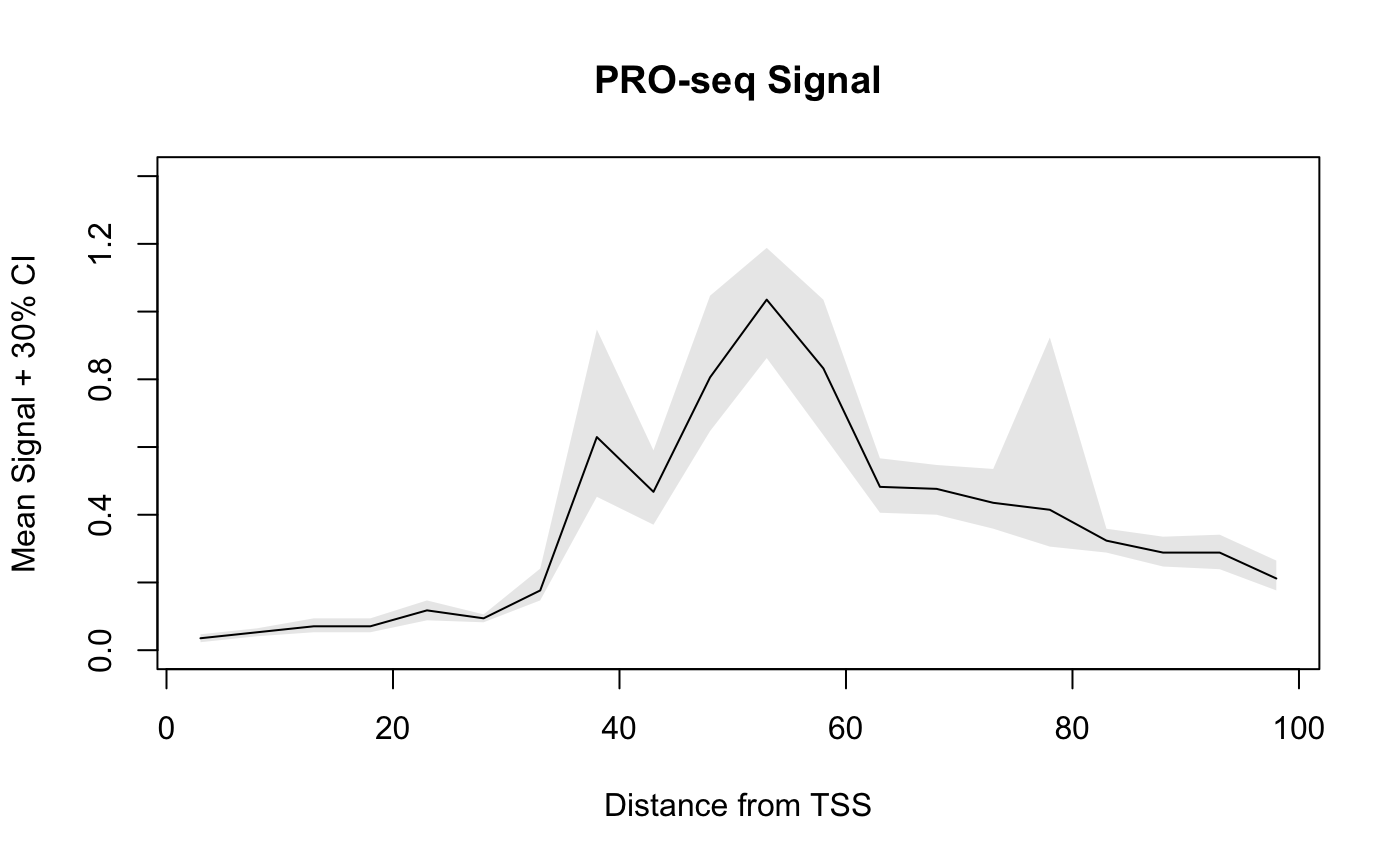
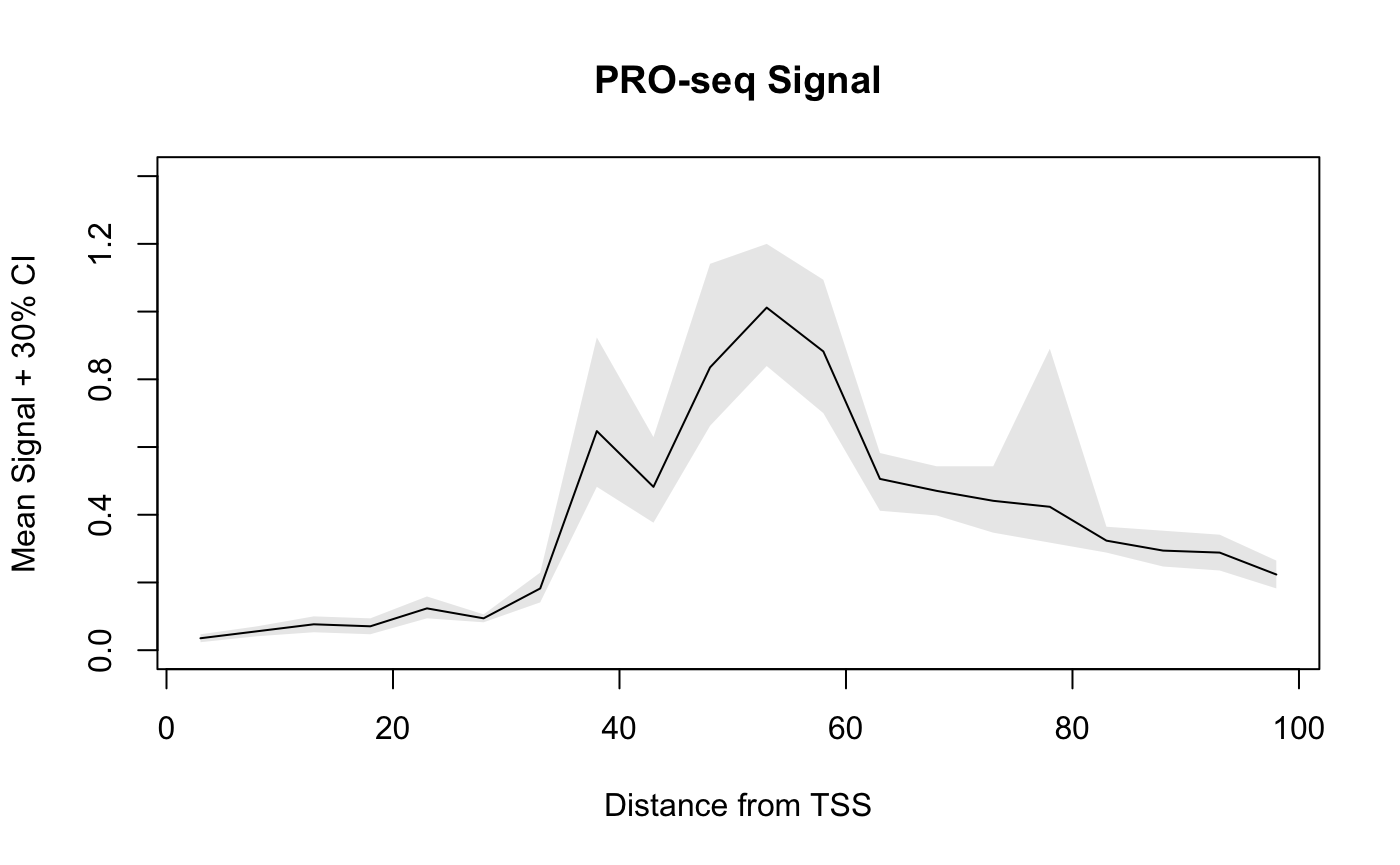
v0.99.26 fix

diff --git a/articles/BRGenomicsOverview.html b/articles/BRGenomicsOverview.html
@@ -76,7 +76,7 @@
   <div class="col-md-9 contents">
     <div class="page-header toc-ignore">
       <h1>Basepair-Resolution Analysis with BRGenomics</h1>
-            <h3 class="subtitle"><em>Straightforward and efficient tools for analyzing genomics data</em></h3>
+            <h3 class="subtitle"><em>Straightforward tools for high-resolution genomics data</em></h3>
                         <h4 class="author">Mike DeBerardine</h4>
                   <a class="author_email" href="mailto:#"></a><a href="mailto:mike.deberardine@gmail.com" class="email">mike.deberardine@gmail.com</a>
       
@@ -1073,10 +1073,10 @@
 <a class="sourceLine" id="cb132-3" data-line-number="3"><span class="kw"><a href="https://rdrr.io/r/utils/head.html">head</a></span>(bootmeans.df)</a></code></pre></div>
 <pre><code>##    x       mean      lower      upper sample.name
 ## 1  3 0.03529412 0.02352941 0.04705882      PROseq
-## 2  8 0.05294118 0.04117647 0.06470588      PROseq
-## 3 13 0.07058824 0.05294118 0.09411765      PROseq
-## 4 18 0.07058824 0.05294118 0.09411765      PROseq
-## 5 23 0.11764706 0.08823529 0.14705882      PROseq
+## 2  8 0.05588235 0.04117647 0.07058824      PROseq
+## 3 13 0.07647059 0.05294118 0.10000000      PROseq
+## 4 18 0.07058824 0.04705882 0.09411765      PROseq
+## 5 23 0.12352941 0.09411765 0.15882353      PROseq
 ## 6 28 0.09411765 0.08235294 0.10588235      PROseq</code></pre>
 <p>A dataframe is returned for plotting, and notice how the x-values have been automatically adjusted to be the center of the bins.</p>
 <p>Below, we show how to plot the confidence bands using base R plotting, as well as <code>ggplot2</code>.</p>
@@ -1113,7 +1113,7 @@
 ## 1  3 0.01176471 0.005882353 0.01764706         ps1
 ## 2  8 0.01764706 0.011764706 0.02352941         ps1
 ## 3 13 0.01764706 0.011764706 0.02352941         ps1
-## 4 18 0.04117647 0.023529412 0.04705882         ps1
+## 4 18 0.04117647 0.029411765 0.05294118         ps1
 ## 5 23 0.02941176 0.017647059 0.04705882         ps1
 ## 6 28 0.02941176 0.023529412 0.04117647         ps1</code></pre>
 <div class="sourceCode" id="cb138"><pre class="sourceCode r"><code class="sourceCode r"><a class="sourceLine" id="cb138-1" data-line-number="1"><span class="kw"><a href="https://rdrr.io/r/base/library.html">require</a></span>(ggplot2)</a>

diff --git a/reference/getCountsByPositions.html b/reference/getCountsByPositions.html
@@ -147,20 +147,6 @@ overlapping each bin. For a description of the critical difference between
   <span class='kw'>melt</span> <span class='kw'>=</span> <span class='fl'>FALSE</span>,
   <span class='kw'>expand_ranges</span> <span class='kw'>=</span> <span class='fl'>FALSE</span>,
   <span class='kw'>ncores</span> <span class='kw'>=</span> <span class='fu'>detectCores</span>()
-)
-
-<span class='fu'>.getCoverageByPositions</span>(
-  <span class='no'>dataset.gr</span>,
-  <span class='no'>regions.gr</span>,
-  <span class='no'>binsize</span>,
-  <span class='no'>FUN</span>,
-  <span class='no'>simplify.multi.widths</span>,
-  <span class='no'>field</span>,
-  <span class='no'>NF</span>,
-  <span class='no'>blacklist</span>,
-  <span class='no'>NA_blacklisted</span>,
-  <span class='no'>melt</span>,
-  <span class='no'>ncores</span>
 )</pre>
 
     <h2 class="hasAnchor" id="arguments"><a class="anchor" href="#arguments"></a>Arguments</h2>

diff --git a/reference/index.html b/reference/index.html
@@ -170,7 +170,7 @@
       </tr><tr>
         
         <td>
-          <p><code><a href="getCountsByPositions.html">getCountsByPositions()</a></code> <code><a href="getCountsByPositions.html">.getCoverageByPositions()</a></code> </p>
+          <p><code><a href="getCountsByPositions.html">getCountsByPositions()</a></code> </p>
         </td>
         <td><p>Get signal counts at each position within regions of interest</p></td>
       </tr><tr>

diff --git a/reference/PROseq-data.html b/reference/PROseq-data.html
@@ -136,6 +136,7 @@
 <p><code>PROseq_paired</code> is a GRanges object containing 53179 ranges and 1
   metadata column, "score", which indicates the number of identically-mapped
   reads (i.e. they share the same 5' and 3' ends).</p>
+<p>An object of class <code>GRanges</code> of length 53179.</p>
     <h2 class="hasAnchor" id="source"><a class="anchor" href="#source"></a>Source</h2>
 
     <p>GEO Accession GSM1032758, run SRR611828.</p>

diff --git a/reference/txs_dm6_chr4.html b/reference/txs_dm6_chr4.html
@@ -142,6 +142,7 @@ the TxDb package using GenomicFeatures version 1.35.11 on 2019-12-19.</p>
   <dt>gene_id</dt><dd><p>FLybase unique identifiers for the associated genes</p></dd>
 
 </dl>
+
     <h2 class="hasAnchor" id="source"><a class="anchor" href="#source"></a>Source</h2>
 
     <p>TxDb.Dmelanogaster.UCSC.dm6.ensGene version 3.4.6</p>
